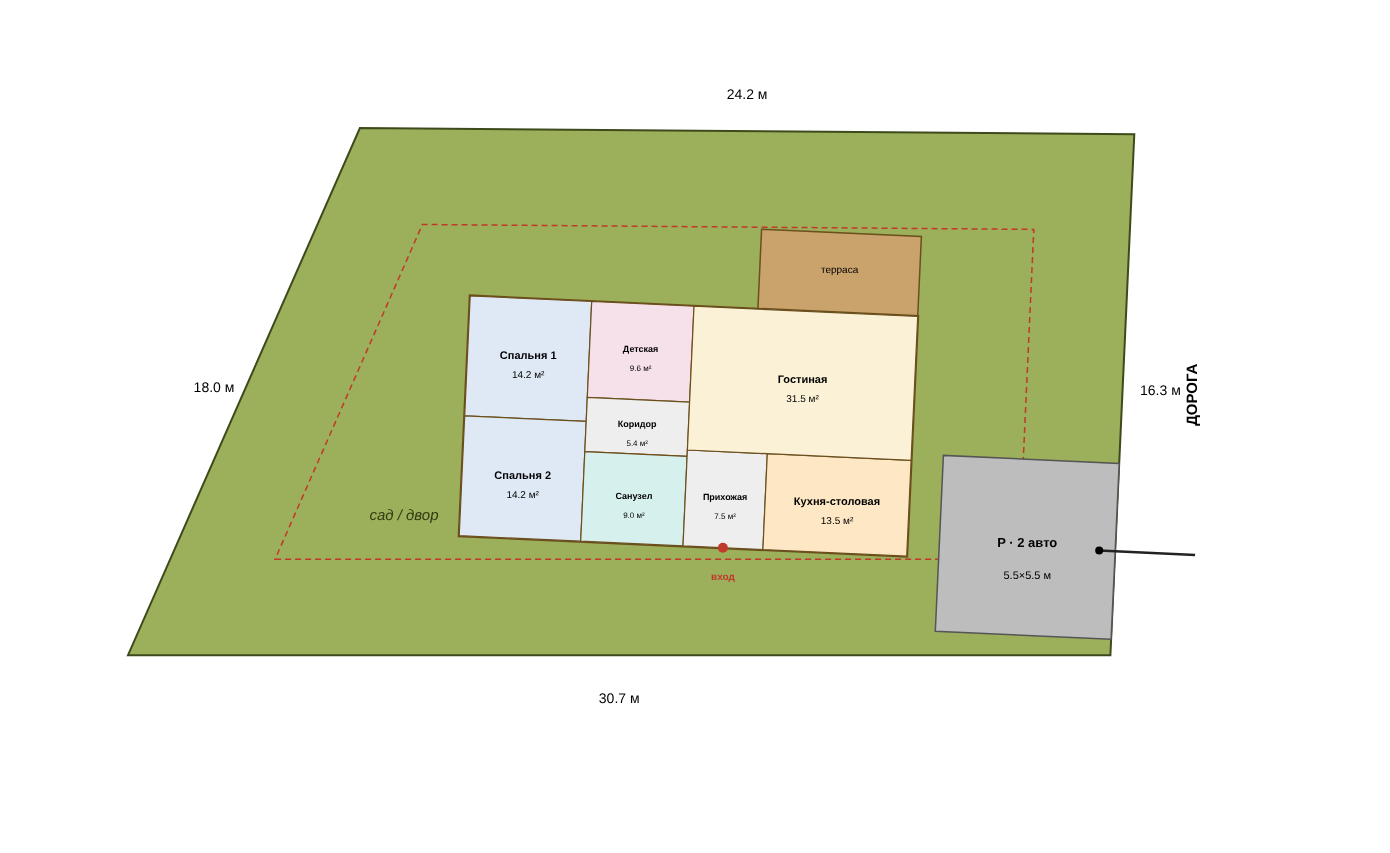
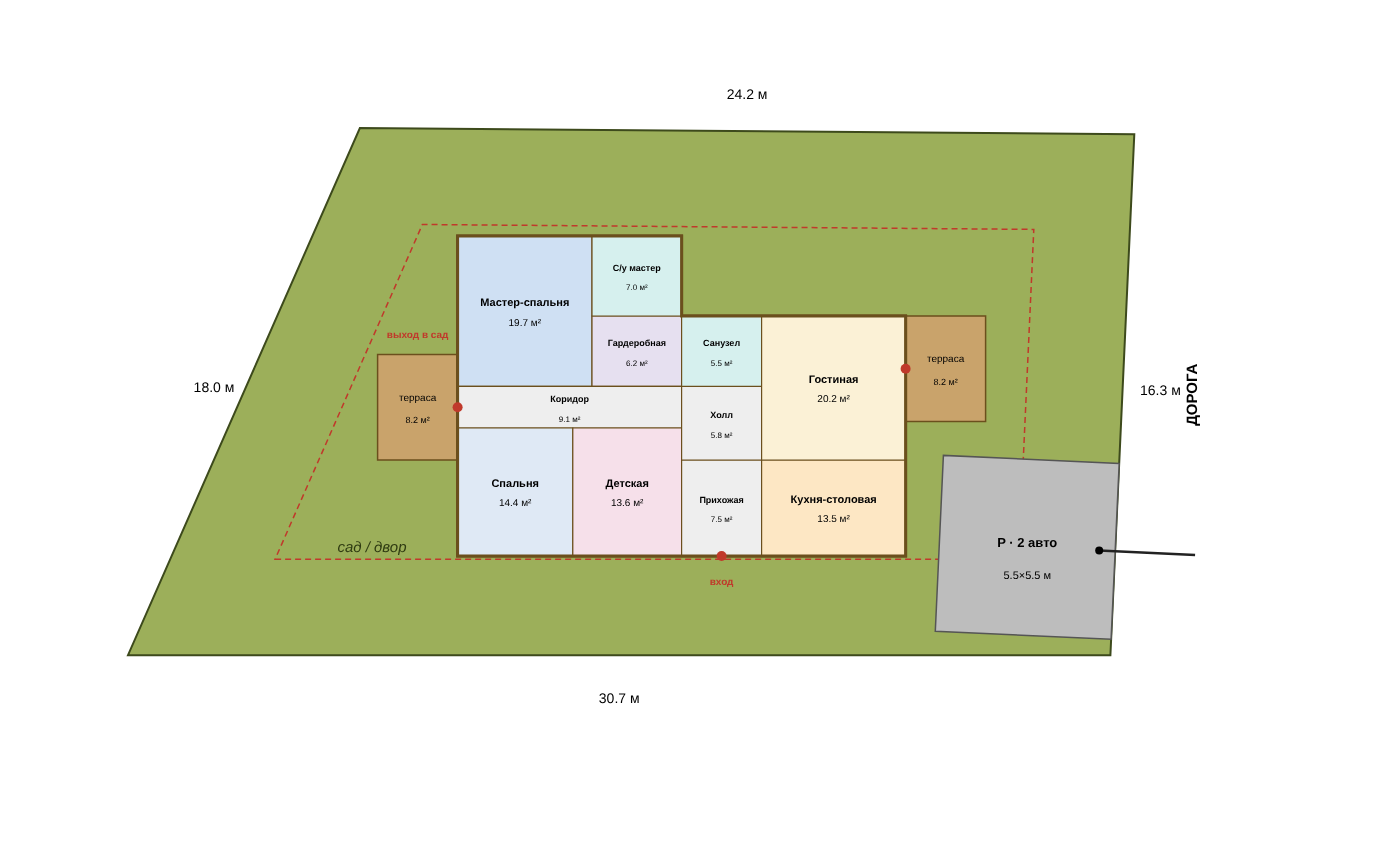
Мастер-спальня в доп. модуле, коридор с выходом в сад, терраса у дороги
Claude-Session: https://claude.ai/code/session_017tjZczqth6Lefs1XGWvp2u

Changed region(s): [[0.2475, 0.2438, 0.7115, 0.7011]]

diff --git a/plan.py b/plan.py
@@ -81,51 +81,80 @@ while not all(inside(P, c) for c in rect(park_s, 0, PARK_W, PARK_D)):
 park_s += 0.5
 PARK = rect(park_s, 0, PARK_W, PARK_D)
 
+# DP-Module «Модерн 105»: 14 × 7.5 м (6 модулей 7 × 2.5 м) + 1 модуль 7 × 2.5 м под мастер-спальню.
+# Локальные координаты дома: X — вдоль длинной стороны (0 = торец в сад, 14 = торец к дороге),
+# Y — поперёк (0 = сторона входа/парковки).
+HOUSE_L = 14.0
+OUTLINE = [(0, 0), (14, 0), (14, 7.5), (7, 7.5), (7, 10), (0, 10)]  # Г-образный контур, 122.5 м²
+
+ROOMS = [
+    # мастер-блок (доп. модуль)
+    ("Мастер-спальня", 0.0, 5.3, 4.2, 10.0, "#cfe0f3"),
+    ("Гардеробная", 4.2, 5.3, 7.0, 7.5, "#e6e0f0"),
+    ("С/у мастер", 4.2, 7.5, 7.0, 10.0, "#d6f0ee"),
+    # коридор между спальнями -> выход в сад
+    ("Коридор", 0.0, 4.0, 7.0, 5.3, "#eeeeee"),
+    ("Спальня", 0.0, 0.0, 3.6, 4.0, "#dfe9f5"),
+    ("Детская", 3.6, 0.0, 7.0, 4.0, "#f6e0ea"),
+    # общая зона
+    ("Прихожая", 7.0, 0.0, 9.5, 3.0, "#eeeeee"),
+    ("Холл", 7.0, 3.0, 9.5, 5.3, "#eeeeee"),
+    ("Санузел", 7.0, 5.3, 9.5, 7.5, "#d6f0ee"),
+    ("Кухня-столовая", 9.5, 0.0, 14.0, 3.0, "#fde7c4"),
+    ("Гостиная", 9.5, 3.0, 14.0, 7.5, "#fbf1d6"),
+]
+TERRACES = [
+    ("терраса", 14.0, 4.2, 16.5, 7.5),   # у дороги, выход из гостиной
+    ("терраса", -2.5, 3.0, 0.0, 6.3),    # в сад, выход из коридора
+]
+DOORS = [("вход", 8.25, 0.0, 8.25, -0.9), ("выход в сад", 0.0, 4.65, -1.25, 6.8), ("", 14.0, 5.85, 0, 0)]
+
+
+def overlap(p1, p2, gap=0.0):
+    """Пересекаются ли два выпуклых многоугольника (с зазором gap) — теорема о разделяющей оси."""
+    for poly in (p1, p2):
+        for i in range(len(poly)):
+            (x1, y1), (x2, y2) = poly[i], poly[(i + 1) % len(poly)]
+            nx, ny = y1 - y2, x2 - x1
+            L = math.hypot(nx, ny)
+            nx, ny = nx / L, ny / L
+            a = [x * nx + y * ny for x, y in p1]
+            b = [x * nx + y * ny for x, y in p2]
+            if max(a) + gap <= min(b) or max(b) + gap <= min(a):
+                return False
+    return True
+
+
+# дом ставим параллельно нижней границе (30.7 м): так 10-метровая ширина помещается в отступы
+def place(xe, y0):
+    return lambda X, Y: (xe - (HOUSE_L - X), y0 + Y)
+
+
+HOUSE_BLOCKS = [(0, 0, 14, 7.5), (0, 7.5, 7, 10)]
 best = None
-# DP-Module «Модерн 105»: 14 × 7.5 м, 6 модулей 7 × 2.5 м
-HOUSE_L, HOUSE_W = 14.0, 7.5
-for w, h in [(HOUSE_W, HOUSE_L), (HOUSE_L, HOUSE_W)]:  # (вдоль дороги, вглубь участка)
-    for si in range(0, 200):
-        s = si * 0.1
-        for ti in range(30, 250):
-            t = ti * 0.1
-            # не пересекаться с парковкой (зазор 1 м)
-            if not (s >= park_s + PARK_W + 1 or t >= PARK_D + 1):
-                continue
-            R = rect(s, t, w, h)
-            if all(inside(BUILD, c) for c in R):
-                score = (t, abs(w - h))  # ближе к дороге => больше сада сзади, форма поквадратнее
-                if best is None or score < best[0]:
-                    best = (score, s, t, w, h)
-                break
-
-_, hs, ht, hw, hh = best
-HOUSE = rect(hs, ht, hw, hh)
-
-
-def local(X, Y):
-    """Локальные координаты дома: X — вдоль длинной стороны (0 = дальний от дороги торец), Y — поперёк."""
-    if hh > hw:  # длинная сторона вглубь участка
-        return to_xy(hs + Y, ht + (HOUSE_L - X))
-    return to_xy(hs + X, ht + Y)
+for yi in range(30, 80):
+    y0 = yi * 0.1
+    for xi in range(320, 100, -1):
+        xe = xi * 0.1
+        loc = place(xe, y0)
+        blocks = [[loc(x0, b0), loc(x1, b0), loc(x1, b1), loc(x0, b1)] for x0, b0, x1, b1 in HOUSE_BLOCKS]
+        road_terrace = [loc(14, 4.2), loc(16.5, 4.2), loc(16.5, 7.5), loc(14, 7.5)]
+        if (all(inside(BUILD, loc(*p)) for p in OUTLINE)
+                and all(inside(BUILD, c) for c in road_terrace)
+                and not any(overlap(bl, PARK, 1.0) for bl in blocks + [road_terrace])):
+            if best is None or xe > best[0]:
+                best = (xe, y0)
+            break
+xe, y0 = best
+local = place(xe, y0)
 
 
 def lrect(x0, y0, x1, y1):
     return [local(x0, y0), local(x1, y0), local(x1, y1), local(x0, y1)]
 
 
-# Реконструкция планировки «Модерн 105» (комнаты из описания DP-Module, размеры ориентировочные)
-ROOMS = [
-    ("Спальня 1", 0.0, 3.75, 3.8, 7.5, "#dfe9f5"),
-    ("Спальня 2", 0.0, 0.0, 3.8, 3.75, "#dfe9f5"),
-    ("Детская", 3.8, 4.5, 7.0, 7.5, "#f6e0ea"),
-    ("Коридор", 3.8, 2.8, 7.0, 4.5, "#eeeeee"),
-    ("Санузел", 3.8, 0.0, 7.0, 2.8, "#d6f0ee"),
-    ("Прихожая", 7.0, 0.0, 9.5, 3.0, "#eeeeee"),
-    ("Кухня-столовая", 9.5, 0.0, 14.0, 3.0, "#fde7c4"),
-    ("Гостиная", 7.0, 3.0, 14.0, 7.5, "#fbf1d6"),
-]
-TERRACE = lrect(9.0, 7.5, 14.0, 10.0)  # выход из гостиной, внутри пятна застройки
+HOUSE = [local(*p) for p in OUTLINE]
+HOUSE_AREA = area(HOUSE)
 
 # ---------- SVG ----------
 xs = [p[0] for p in P]; ys = [p[1] for p in P]
@@ -157,20 +186,27 @@ def centroid(pts):
 
 
 ROOMS_SVG = []
-for name, x0, y0, x1, y1, col in ROOMS:
+for name, x0, y0, x1, y1 in TERRACES:
     pts = lrect(x0, y0, x1, y1)
-    ROOMS_SVG.append(poly_svg(pts, fill=col, stroke="#6b4f1d", stroke_width=1.2))
+    ROOMS_SVG.append(poly_svg(pts, fill="#c9a36b", stroke="#6b4f1d", stroke_width=1.5))
+    c = centroid(pts)
+    ROOMS_SVG.append(text((c[0], c[1] + 0.2), name, 10))
+    ROOMS_SVG.append(text((c[0], c[1] - 0.5), f"{abs((x1 - x0) * (y1 - y0)):.1f} м²", 9))
+ROOMS_SVG.append(poly_svg(HOUSE, fill="#f3e6c8", stroke="#6b4f1d", stroke_width=3))
+for name, x0, y0, x1, y1, col in ROOMS:
+    ROOMS_SVG.append(poly_svg(lrect(x0, y0, x1, y1), fill=col, stroke="#6b4f1d", stroke_width=1.2))
+ROOMS_SVG.append(poly_svg(HOUSE, fill="none", stroke="#6b4f1d", stroke_width=3))
 for name, x0, y0, x1, y1, col in ROOMS:
     c = centroid(lrect(x0, y0, x1, y1))
     a = abs((x1 - x0) * (y1 - y0))
     fs = 11 if a > 12 else 9
-    ROOMS_SVG.append(text(c, name, fs, font_weight="bold"))
-    ROOMS_SVG.append(text((c[0], c[1] - 0.6), f"{a:.1f} м²", fs - 1))
-# входная дверь
-d = centroid(lrect(7.6, -0.2, 8.9, 0.2))
-dx, dy = sv(d)
-ROOMS_SVG.append(f'<circle cx="{dx:.1f}" cy="{dy:.1f}" r="5" fill="#c0392b"/>')
-ROOMS_SVG.append(text((d[0], d[1] - 1.0), "вход", 10, fill="#c0392b", font_weight="bold"))
+    ROOMS_SVG.append(text((c[0], c[1] + 0.15), name, fs, font_weight="bold"))
+    ROOMS_SVG.append(text((c[0], c[1] - 0.45), f"{a:.1f} м²", fs - 1))
+for name, X, Y, LX, LY in DOORS:
+    dx, dy = sv(local(X, Y))
+    ROOMS_SVG.append(f'<circle cx="{dx:.1f}" cy="{dy:.1f}" r="5" fill="#c0392b"/>')
+    if name:
+        ROOMS_SVG.append(text(local(LX, LY), name, 10, fill="#c0392b", font_weight="bold"))
 
 W, H = (maxx - minx) * SC, (maxy - miny) * SC + 70
 el = [
@@ -179,9 +215,6 @@ el = [
     poly_svg(P, fill="#9caf5a", stroke="#3d4a1c", stroke_width=2),
     poly_svg(BUILD, fill="none", stroke="#c0392b", stroke_width=1.5, stroke_dasharray="6 4"),
     poly_svg(PARK, fill="#bdbdbd", stroke="#555", stroke_width=1.5),
-    poly_svg(TERRACE, fill="#c9a36b", stroke="#6b4f1d", stroke_width=1.5),
-    text(centroid(TERRACE), "терраса", 10),
-    poly_svg(HOUSE, fill="#f3e6c8", stroke="#6b4f1d", stroke_width=3),
     *ROOMS_SVG,
     text(centroid(PARK), "P · 2 авто", 13, font_weight="bold"),
     text((centroid(PARK)[0], centroid(PARK)[1] - 1.0), f"{PARK_W:g}×{PARK_D:g} м", 11),
@@ -195,18 +228,26 @@ mx, my = sv(mid(B, C)); el[-1] = f'<text x="{mx+38:.1f}" y="{my:.1f}" font-size=
 # стрелка въезда
 e1 = sv(to_xy(park_s + PARK_W / 2, -2.5)); e2 = sv(to_xy(park_s + PARK_W / 2, 0.5))
 el.append(f'<line x1="{e1[0]:.1f}" y1="{e1[1]:.1f}" x2="{e2[0]:.1f}" y2="{e2[1]:.1f}" stroke="#222" stroke-width="2.5"/><circle cx="{e2[0]:.1f}" cy="{e2[1]:.1f}" r="4"/>')
-garden = ((A[0] + D[0]) / 2 + 5, (A[1] + D[1]) / 2 - 4)
+garden = ((A[0] + D[0]) / 2 + 4, (A[1] + D[1]) / 2 - 5)
 el.append(text(garden, "сад / двор", 15, fill="#2f3b12", font_style="italic"))
 y0 = (maxy - miny) * SC + 25
 el.append(f'<rect x="20" y="{y0-12}" width="28" height="0" stroke="#c0392b" stroke-dasharray="6 4" stroke-width="1.5"/>')
 el.append(f'<line x1="20" y1="{y0-5}" x2="50" y2="{y0-5}" stroke="#c0392b" stroke-dasharray="6 4" stroke-width="1.5"/>')
 el.append(f'<text x="58" y="{y0}" font-size="13" font-family="sans-serif">граница пятна застройки: отступ {SETBACK:g} м от всех границ</text>')
-el.append(f'<text x="20" y="{y0+24}" font-size="13" font-family="sans-serif">участок ≈{area(P):.0f} м² · дом {hw*hh:.0f} м² · застройка {hw*hh/area(P)*100:.0f}% · масштаб: 1 м = {SC}px</text>')
+el.append(f'<text x="20" y="{y0+24}" font-size="13" font-family="sans-serif">участок ≈{area(P):.0f} м² · дом {HOUSE_AREA:.1f} м² (7 модулей DP-Module) · застройка {HOUSE_AREA/area(P)*100:.0f}% · масштаб: 1 м = {SC}px</text>')
 el.append("</svg>")
 open("plan.svg", "w").write("\n".join(el))
 
 print("угол при A:", round(math.degrees(best_a), 1))
 print("участок:", [tuple(round(c, 2) for c in p) for p in P], "площадь", round(area(P), 1))
 print("пятно застройки:", round(area(BUILD), 1), "м²")
-print(f"дом {hw}×{hh} = {hw*hh:.1f} м², отступ от дороги {ht:.1f} м, s={hs:.1f}")
+def dist_to_line(p, a, b):
+    return abs((b[0] - a[0]) * (a[1] - p[1]) - (a[0] - p[0]) * (b[1] - a[1])) / math.hypot(b[0] - a[0], b[1] - a[1])
+
+
+print(f"дом {HOUSE_AREA:.1f} м²; до дороги {min(dist_to_line(p, B, C) for p in HOUSE):.2f} м; "
+      f"до низа {min(dist_to_line(p, A, B) for p in HOUSE):.2f}; до верха {min(dist_to_line(p, C, D) for p in HOUSE):.2f}; "
+      f"до левой {min(dist_to_line(p, D, A) for p in HOUSE):.2f}")
+print("террасы внутри пятна:", [all(inside(BUILD, c) for c in lrect(*t[1:])) for t in TERRACES], "внутри участка:", [all(inside(P, c) for c in lrect(*t[1:])) for t in TERRACES])
+print("сумма комнат:", sum(abs((r[3]-r[1])*(r[4]-r[2])) for r in ROOMS))
 print("парковка s=", round(park_s, 1))
